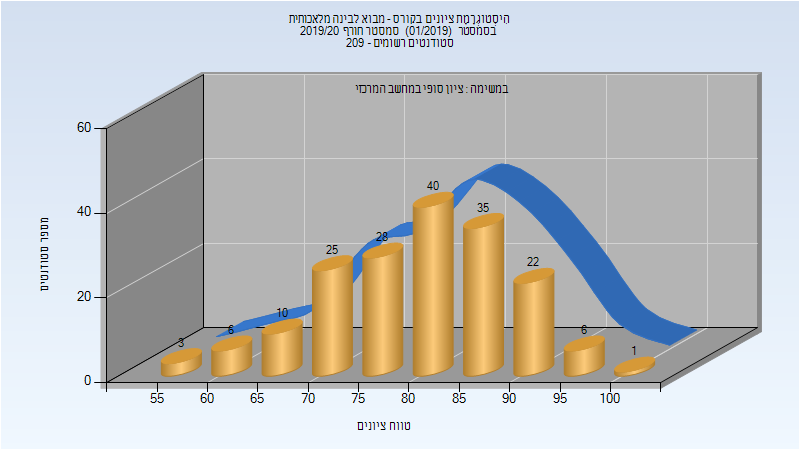
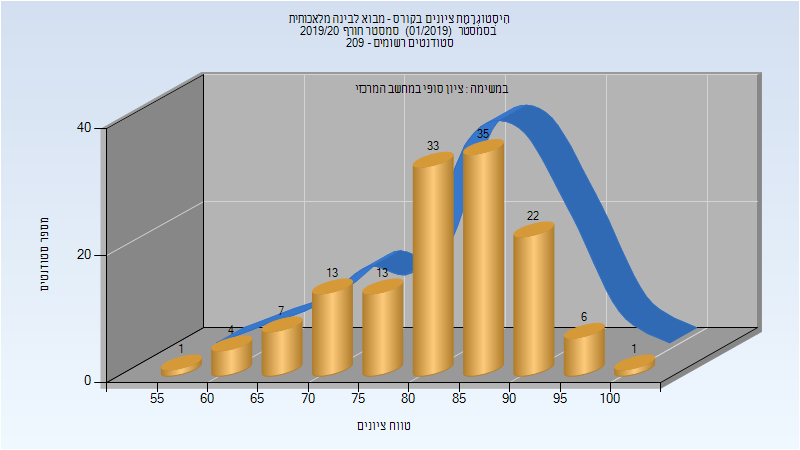
Deploy michael-maltsev/technion-histograms to github.com/michael-maltsev/technion-histograms.git:gh-pages

diff --git a/236501/index.html b/236501/index.html
@@ -161,13 +161,13 @@
 </thead>
 <tbody>
 <tr>
-<td>182</td>
-<td>182/0</td>
+<td>198</td>
+<td>198/0</td>
 <td>100</td>
 <td>55</td>
 <td>100</td>
-<td>80.756</td>
-<td>82</td>
+<td>82.874</td>
+<td>84</td>
 </tr>
 </tbody>
 </table>

diff --git a/236501/README.md b/236501/README.md
@@ -50,5 +50,5 @@
 
 | סטודנטים | עברו/נכשלו | אחוז עוברים | ציון מינימלי | ציון מקסימלי | ממוצע | חציון |
 | ---- | ---- | ---- | ---- | ---- | ---- | ---- |
-| 182 | 182/0 | 100 | 55 | 100 | 80.756 | 82 |
+| 198 | 198/0 | 100 | 55 | 100 | 82.874 | 84 |
 
